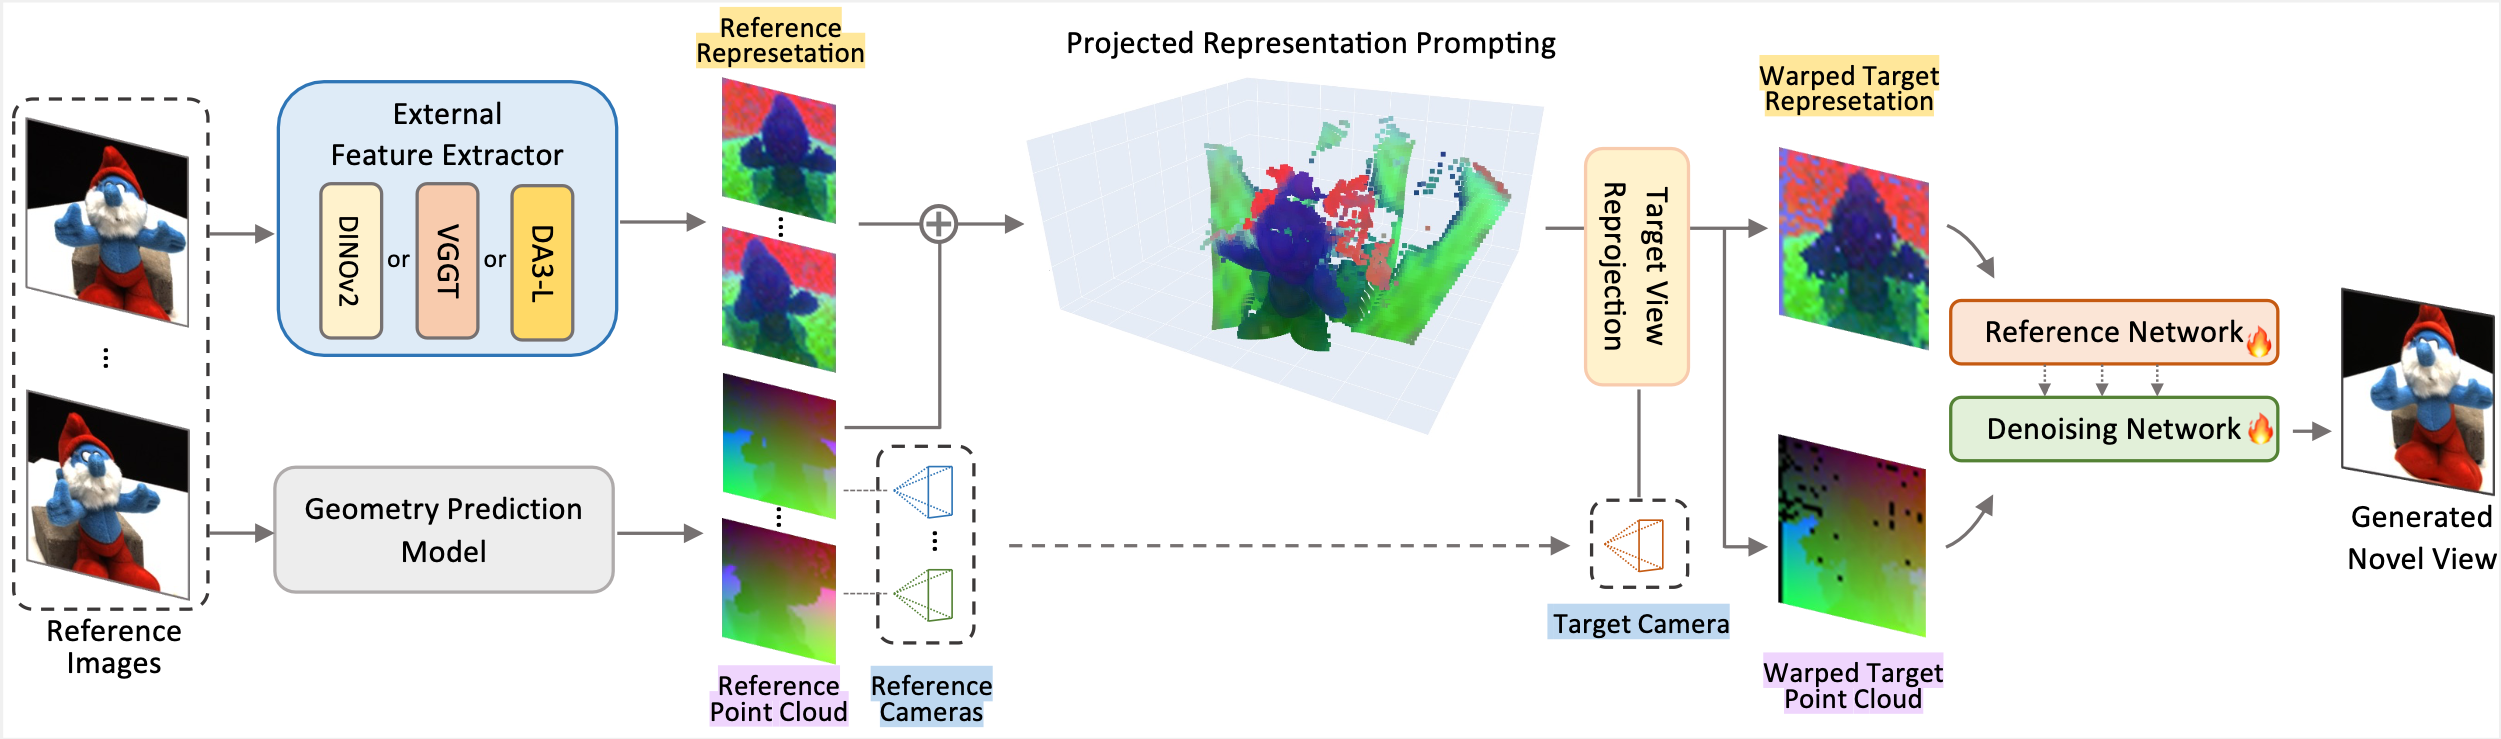
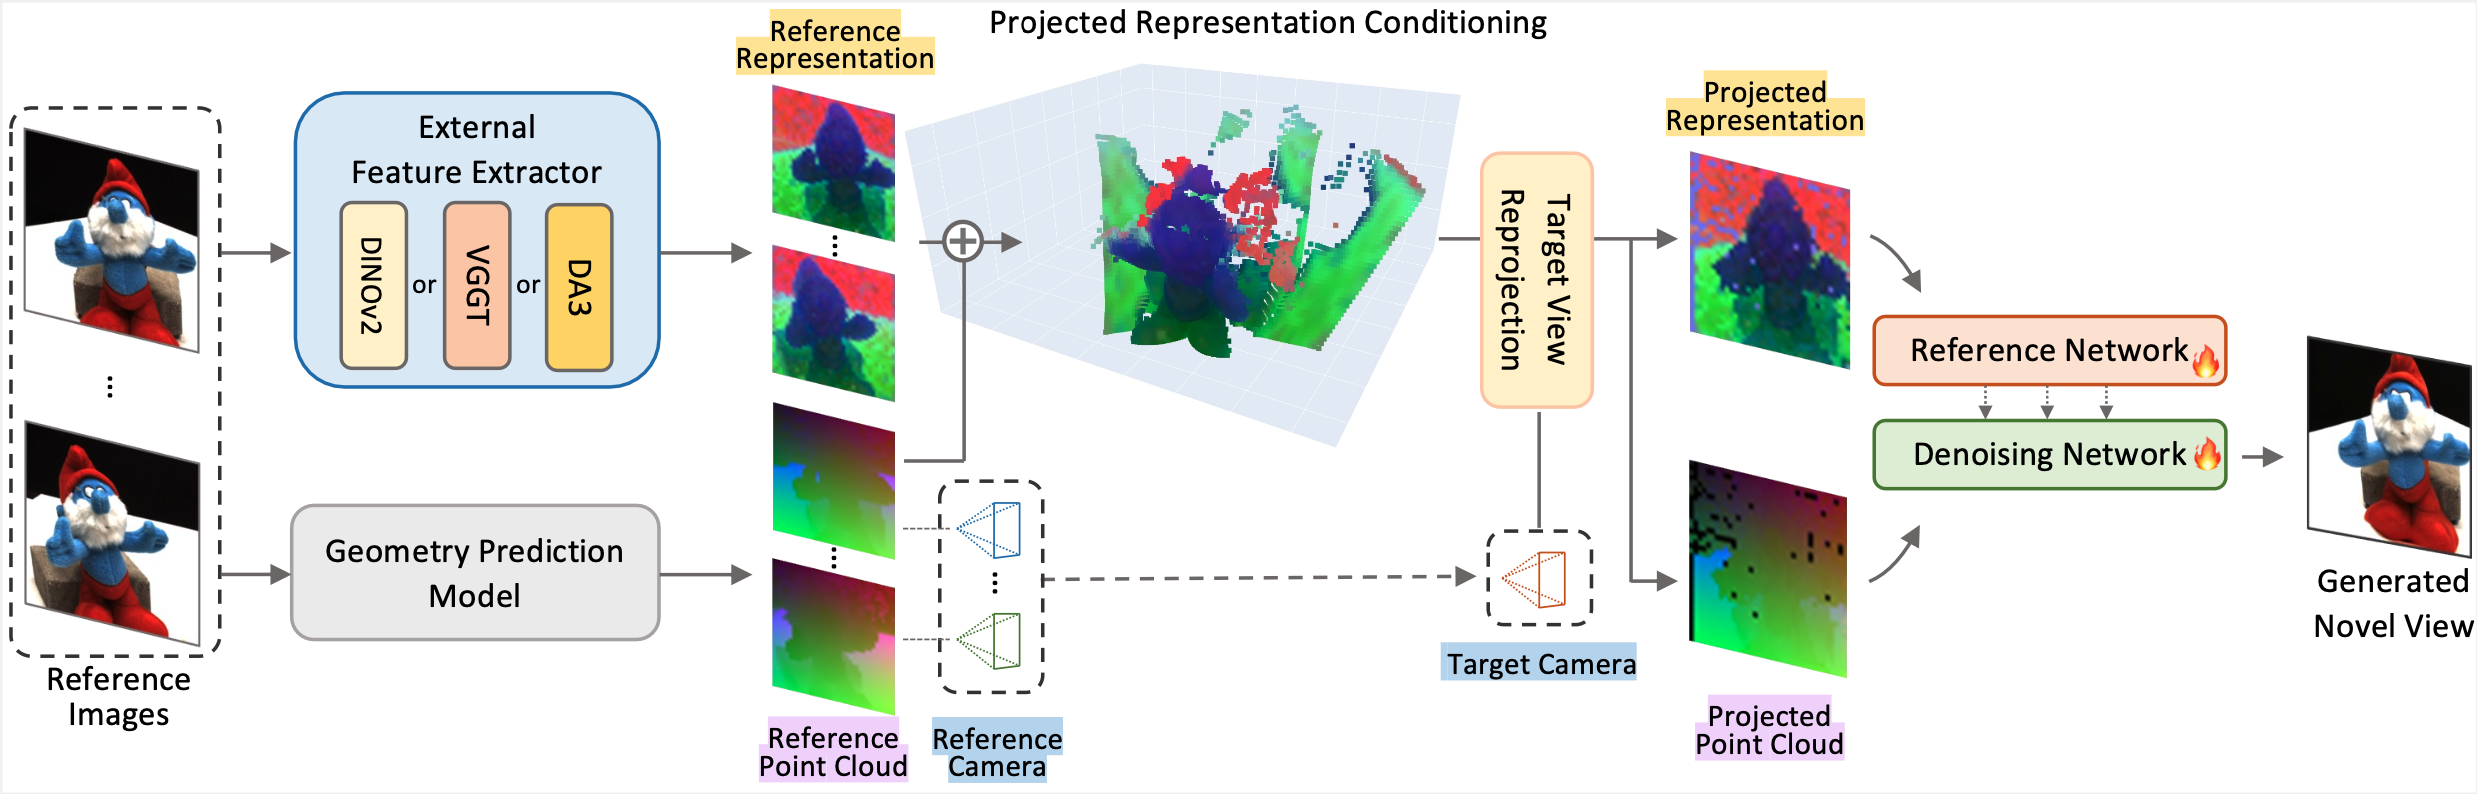
update title and figure

diff --git a/index.html b/index.html
@@ -4,9 +4,9 @@
 <head>
     <meta charset="UTF-8">
     <meta name="viewport" content="width=device-width, initial-scale=1.0">
-    <title>ReNoV: Projected Representation Prompting for High-fidelity Novel View Synthesis</title>
+    <title>ReNoV: Projected Representation Conditioning for High-fidelity Novel View Synthesis</title>
     <meta name="description"
-        content="Project page for ReNoV: Projected Representation Prompting for High-fidelity Novel View Synthesis">
+        content="Project page for ReNoV: Projected Representation Conditioning for High-fidelity Novel View Synthesis">
 
     <!-- Fonts and Icons -->
     <link rel="stylesheet"
@@ -41,13 +41,13 @@
             <div class="sidebar-dot"></div>
             <span class="sidebar-label">Method</span>
         </a>
-        <a href="#results" class="sidebar-item">
-            <div class="sidebar-dot"></div>
-            <span class="sidebar-label">Qualitative</span>
-        </a>
         <a href="#quantitative" class="sidebar-item">
             <div class="sidebar-dot"></div>
             <span class="sidebar-label">Quantitative</span>
+        </a>
+        <a href="#results" class="sidebar-item">
+            <div class="sidebar-dot"></div>
+            <span class="sidebar-label">Qualitative</span>
         </a>
         <a href="#citation" class="sidebar-item">
             <div class="sidebar-dot"></div>
@@ -59,25 +59,25 @@
     <section id="overview" class="hero-section">
         <div class="hero-container">
             <h1 class="hero-title">
-                <span class="gradient-text">ReNoV</span>: Projected Representation Prompting for High-fidelity Novel
+                <span class="gradient-text">ReNoV</span>: Projected Representation Conditioning for High-fidelity Novel
                 View Synthesis
             </h1>
             <p class="hero-status">arXiv 2026</p>
 
             <!-- Authors -->
             <div class="hero-authors">
-                <span>Minseop Kwak<sup>*</sup></span>
+                <span>Minseop Kwak<sup>*1</sup></span>
                 <span>Minkyung
-                    Kwon<sup>*</sup></span>
+                    Kwon<sup>*1</sup></span>
                 <span>Jinhyeok
-                    Choi<sup>*</sup></span>
-                <span>Jiho Park<sup></sup></span>
+                    Choi<sup>*1</sup></span>
+                <span>Jiho Park<sup>1</sup></span>
                 <span><a href="https://cvlab.kaist.ac.kr/members/faculty" target="_blank"
-                        rel="noopener noreferrer">Seungryong Kim</a><sup>&dagger;</sup></span>
+                        rel="noopener noreferrer">Seungryong Kim</a><sup>&dagger;1</sup></span>
             </div>
 
             <div class="hero-affiliations">
-                <span><sup></sup>KAIST AI</span>
+                <span><sup>1</sup>KAIST AI</span>
             </div>
 
             <div class="hero-notes">
@@ -116,9 +116,9 @@
             </div>
 
             <!-- Main Image -->
-            <div class="video-container" style="width: 100%; max-width: 1200px; margin: 2rem auto;">
-                <img src="assets/teaser.png" alt="ReNoV Teaser" style="width: 100%; border-radius: 8px;">
-            </div>
+            <!-- <div class="video-container" style="width: 100%; max-width: 1200px; margin: 2rem auto;">
+                <img src="assets/method-1.png" alt="ReNoV Teaser" style="width: 100%; border-radius: 8px;">
+            </div> -->
         </div>
     </section>
 
@@ -132,9 +132,9 @@
                     representations as conditions, harnessing their geometric and semantic correspondence properties for
                     enhanced geometric consistency in generated novel viewpoints. First, we provide a detailed analysis
                     exploring the correspondence capabilities emergent in the spatial attention of external visual
-                    representations. Building from these insights, we propose projected representation prompting,
-                    achieving representation-guided novel view synthesis through dedicated representation projection
-                    modules that inject external representations into the diffusion process, a methodology named
+                    representations. Building from these insights, we propose a representation-guided novel view
+                    synthesis through dedicated representation projection modules that inject external representations
+                    into the diffusion process, a methodology named
                     <strong>ReNoV</strong> (<strong>Re</strong>presentation-guided <strong>No</strong>vel
                     <strong>V</strong>iew synthesis). Our experiments show that this design yields marked improvements
                     in both reconstruction fidelity and inpainting quality, outperforming prior diffusion‐based
@@ -152,7 +152,7 @@
 
             <div class="analysis-content">
                 <p>
-                    We interpret novel view synthesis as a warping-and-inpainting problem,
+                    Unlike previous methods, we interpret novel view synthesis as a warping-and-inpainting problem,
                     requiring models to excel at two tasks: accurate <strong>reconstruction</strong> of visible regions
                     and consistent <strong>inpainting</strong> of occluded regions. This motivates the search for a
                     conditioning representation that simultaneously encodes semantic awareness and geometric
@@ -188,7 +188,7 @@
                     <p>
                         <strong>Analysis of visual foundation models.</strong>
                         (Left) Geometric correspondence, (Center) Semantic correspondence, & (Right) Local vs. Distant
-                        Similarity across layers.
+                        Similarity across feature layers.
                     </p>
                 </div>
 
@@ -231,14 +231,15 @@
             <h2 class="section-title">Method</h2>
 
             <div class="analysis-image-container">
-                <img src="assets/teaser.png" alt="ReNoV Method Overview" class="analysis-image">
+                <img src="assets/method-1.png" alt="ReNoV Method Overview" class="analysis-image">
             </div>
 
             <div class="results-caption">
                 <p>
-                    <strong>ReNoV architecture.</strong> Given \(N\) reference images, we extract visual features, dense
-                    point clouds, and camera poses using an external representation model (e.g., VGGT, DA3-L, or
-                    DINOv2). These components undergo projected representation prompting, where reference features and
+                    <strong>ReNoV Architecture.</strong> Given \(N\) reference images, we extract visual features, dense
+                    point clouds, and camera poses using an external representation model (e.g., VGGT, DA3, or
+                    DINOv2). These components undergo projected representation conditioning, where reference features
+                    and
                     point clouds are projected into the target camera frustum to form warped representation and
                     point-map
                     planes. The reference network aggregates these multi-view inputs by passing them as keys and values
@@ -249,11 +250,11 @@
 
             <div class="renov-description">
                 <div>
-                    <h3 class="analysis-subtitle">Projected Representation Prompting</h3>
+                    <h3 class="analysis-subtitle">Projected Representation Conditioning</h3>
                     <p>
                         We incorporate a geometry-driven conditioning mechanism based on warping. Specifically, we
-                        project the reference pointmaps \(\{P_1, \dots, P_N\}\) and the corresponding external feature
-                        representations \(\{T_1, \dots, T_N\}\) into the target viewpoint \(\pi_{\text{tgt}}\).
+                        project the reference pointmaps \(\{P_1, \dots, P_N\}\) and the corresponding external
+                        representation features \(\{T_1, \dots, T_N\}\) into the target viewpoint \(\pi_{\text{tgt}}\).
                         These projected signals provide spatial priors that guide the diffusion model toward
                         higher-quality generation results. The projected pointmap \(\mathcal{P}^{\Pi}_{\text{tgt}}\)
                         serves as a sparse geometric condition.
@@ -607,13 +608,13 @@
                     <i class="fa-regular fa-copy"></i> Copy
                 </button>
                 <div id="bibtex-text">@article{kwak2026renov,
-                    title={Projected Representation Prompting for High-fidelity Novel View Synthesis},
+                    title={Projected Representation Conditioning for High-fidelity Novel View Synthesis},
                     author={Kwak, Minseop and Kwon, Minkyung and Choi, Jinhyeok and Park, Jiho and Kim, Seungryong},
                     journal={arXiv preprint},
                     year={2026}
                     }</div>
                 <pre class="citation-code"><code id="bibtex-code">@article{kwak2026renov,
-  title={Projected Representation Prompting for High-fidelity Novel View Synthesis},
+  title={Projected Representation Conditioning for High-fidelity Novel View Synthesis},
   author={Kwak, Minseop and Kwon, Minkyung and Choi, Jinhyeok and Park, Jiho and Kim, Seungryong},
   journal={arXiv preprint}, 
   year={2026}
@@ -625,7 +626,7 @@
     <!-- Footer -->
     <footer class="footer">
         <div class="container">
-            <p>ReNoV: Projected Representation Prompting for High-fidelity Novel View Synthesis.</p>
+            <p>ReNoV: Projected Representation Conditioning for High-fidelity Novel View Synthesis.</p>
         </div>
     </footer>
 
